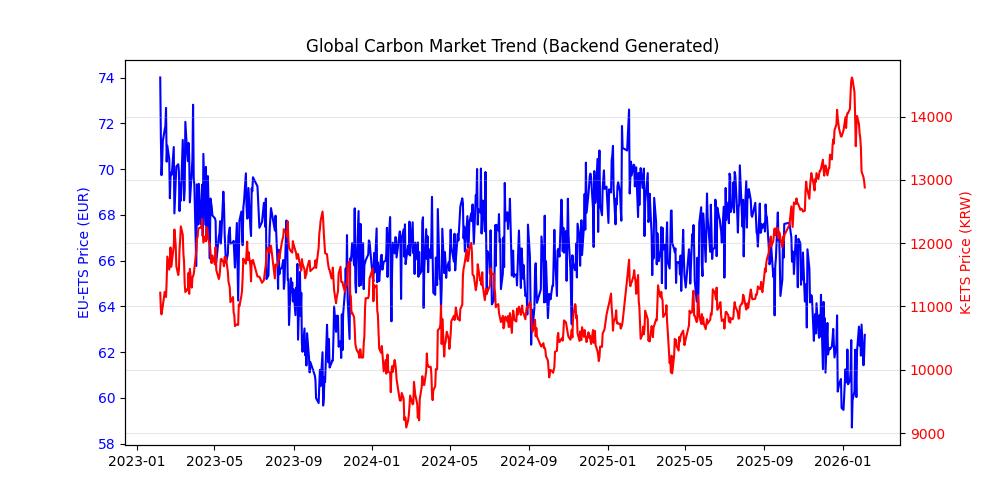
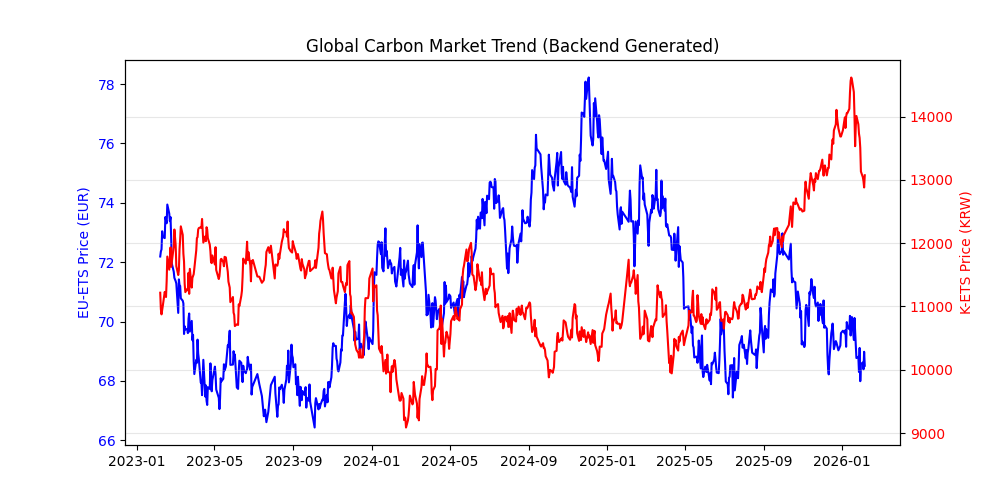
api동기화

diff --git a/frontend/src/features/시뮬레이터/SimulatorTab.tsx b/frontend/src/features/시뮬레이터/SimulatorTab.tsx
@@ -1,4 +1,4 @@
-import React from 'react';
+import React, { useState, useEffect } from 'react';
 import {
     ComposedChart, Line, XAxis, YAxis, CartesianGrid, Tooltip, ResponsiveContainer, ReferenceLine
 } from 'recharts';
@@ -46,11 +46,45 @@ export const SimulatorTab: React.FC<SimulatorTabProps> = ({
     estimatedSavings,
     generateAIPlan
 }) => {
+    const [marketData, setMarketData] = useState(MARKET_DATA);
+
+    useEffect(() => {
+        const fetchMarketData = async () => {
+            try {
+                const response = await fetch('http://localhost:8000/api/v1/sim/market/current');
+                if (response.ok) {
+                    const data = await response.json();
+
+                    setMarketData(prev => ({
+                        ...prev,
+                        'K-ETS': {
+                            ...prev['K-ETS'],
+                            price: data['K-ETS'].price,
+                            change: data['K-ETS'].change,
+                            // ticker could be updated if backend returns it, mainly ensuring consistency
+                        },
+                        'EU-ETS': {
+                            ...prev['EU-ETS'],
+                            price: data['EU-ETS'].price,
+                            change: data['EU-ETS'].change
+                        }
+                    }));
+                }
+            } catch (error) {
+                console.error("Failed to fetch market data", error);
+            }
+        };
+        fetchMarketData();
+        // Optional: Polling every 1 min
+        const interval = setInterval(fetchMarketData, 60000);
+        return () => clearInterval(interval);
+    }, []);
+
     return (
         <div className="space-y-8 animate-in fade-in duration-700">
             {/* Grid */}
             <div className="grid grid-cols-1 sm:grid-cols-2 lg:grid-cols-4 gap-4">
-                {Object.values(MARKET_DATA).map((market) => {
+                {Object.values(marketData).map((market) => {
                     const isActive = selectedMarket === market.id;
                     return (
                         <Card
@@ -92,7 +126,7 @@ export const SimulatorTab: React.FC<SimulatorTabProps> = ({
                         <p className="text-sm text-slate-500">다중 시장 수렴 분석 (Convergence Analysis)</p>
                         <div className="flex gap-2 mt-2">
                             <p className="text-[10px] text-[#10b77f] font-bold bg-[#10b77f]/10 w-fit px-2 py-0.5 rounded-full flex items-center gap-1">
-                                <Database size={10} /> Source: EEX & KRX Data
+                                <Database size={10} /> 출처: EEX & KRX 데이터
                             </p>
                         </div>
                     </div>
@@ -133,10 +167,10 @@ export const SimulatorTab: React.FC<SimulatorTabProps> = ({
                             />
 
                             {/* Left Axis: EU-ETS (EUR) */}
-                            <YAxis yAxisId="left" orientation="left" hide={false} domain={['auto', 'auto']} tick={{ fontSize: 10, fill: '#a5d8ff' }} label={{ value: 'EUR', angle: -90, position: 'insideLeft', fill: '#a5d8ff', fontSize: 10 }} />
+                            <YAxis yAxisId="left" orientation="left" hide={false} domain={['auto', 'auto']} tick={{ fontSize: 10, fill: '#a5d8ff' }} label={{ value: '유로 (EUR)', angle: -90, position: 'insideLeft', fill: '#a5d8ff', fontSize: 10 }} />
 
                             {/* Right Axis: K-ETS (KRW) */}
-                            <YAxis yAxisId="right" orientation="right" hide={false} domain={['auto', 'auto']} tick={{ fontSize: 10, fill: '#10b77f' }} label={{ value: 'KRW', angle: 90, position: 'insideRight', fill: '#10b77f', fontSize: 10 }} />
+                            <YAxis yAxisId="right" orientation="right" hide={false} domain={['auto', 'auto']} tick={{ fontSize: 10, fill: '#10b77f' }} label={{ value: '원 (KRW)', angle: 90, position: 'insideRight', fill: '#10b77f', fontSize: 10 }} />
 
                             <Tooltip content={<CustomTooltip />} />
                             {(timeRange !== '1개월') && (
@@ -151,7 +185,7 @@ export const SimulatorTab: React.FC<SimulatorTabProps> = ({
                                 yAxisId="left"
                                 type="monotone"
                                 dataKey="euPrice"
-                                name="EU-ETS"
+                                name="유럽 (EU-ETS)"
                                 stroke={MARKET_DATA['EU-ETS'].color}
                                 strokeWidth={selectedMarket === 'EU-ETS' ? 3 : 1.5}
                                 strokeOpacity={selectedMarket === 'EU-ETS' ? 1 : 0.6}
@@ -166,7 +200,7 @@ export const SimulatorTab: React.FC<SimulatorTabProps> = ({
                                 yAxisId="right"
                                 type="monotone"
                                 dataKey="krPrice"
-                                name="K-ETS"
+                                name="한국 (K-ETS)"
                                 stroke={MARKET_DATA['K-ETS'].color}
                                 strokeWidth={selectedMarket === 'K-ETS' ? 3 : 1.5}
                                 strokeOpacity={selectedMarket === 'K-ETS' ? 1 : 0.6}
@@ -238,7 +272,7 @@ export const SimulatorTab: React.FC<SimulatorTabProps> = ({
                         <div className="flex flex-col gap-6 mb-8">
                             <div className="flex flex-col gap-2">
                                 <div className="flex justify-between text-sm">
-                                    <label className="text-slate-300">예산 배정 (Budget)</label>
+                                    <label className="text-slate-300">예산 배정</label>
                                     <span className="font-mono text-[#10b77f]">{simBudget}%</span>
                                 </div>
                                 <input
@@ -251,7 +285,7 @@ export const SimulatorTab: React.FC<SimulatorTabProps> = ({
                             </div>
                             <div className="flex flex-col gap-2">
                                 <div className="flex justify-between text-sm">
-                                    <label className="text-slate-300">리스크 허용범위 (Risk)</label>
+                                    <label className="text-slate-300">리스크 허용범위</label>
                                     <span className="font-mono text-[#10b77f]">{simRisk < 30 ? '낮음' : simRisk < 70 ? '중간' : '높음'}</span>
                                 </div>
                                 <input

diff --git a/frontend/src/components/ui/CustomTooltip.tsx b/frontend/src/components/ui/CustomTooltip.tsx
@@ -6,8 +6,8 @@ export const CustomTooltip = ({ active, payload, label, unit }: any) => {
             <div className="bg-white/95 backdrop-blur-md border border-slate-100 p-4 rounded-xl shadow-2xl text-xs z-50">
                 <p className="font-bold text-slate-800 mb-2 border-b border-slate-100 pb-2">{label}</p>
                 {payload.map((entry: any, index: number) => {
-                    const isCurrency = ['K-ETS', 'EU-ETS', 'UK-ETS', 'Cost', 'Price', 'Revenue', 'Capex'].some(key => entry.name?.includes(key));
-                    const currencySymbol = entry.name?.includes('EU') ? '€' : (entry.name?.includes('UK') ? '£' : '₩');
+                    const isCurrency = ['K-ETS', 'EU-ETS', 'UK-ETS', '한국', '유럽', 'Cost', 'Price', 'Revenue', 'Capex'].some(key => entry.name?.includes(key));
+                    const currencySymbol = (entry.name?.includes('EU') || entry.name?.includes('유럽')) ? '€' : (entry.name?.includes('UK') ? '£' : '₩');
 
                     return (
                         <div key={index} className="flex items-center gap-2 mb-1 justify-between min-w-[120px]">

diff --git a/frontend/src/data/mockData.ts b/frontend/src/data/mockData.ts
@@ -22,7 +22,7 @@ export const MOCK_COMPANIES: CompanyConfig[] = [
 ];
 
 export const MARKET_DATA: Record<MarketType, MarketInfo> = {
-    'K-ETS': { id: 'K-ETS', name: '한국', ticker: 'KAU25', price: 15450, currency: 'KRW', change: 1.2, color: '#10b77f', desc: 'KAU25 할당배출권', high: 16500, low: 13800, volatility: 'Low' },
+    'K-ETS': { id: 'K-ETS', name: '한국', ticker: 'KAU', price: 15450, currency: 'KRW', change: 1.2, color: '#10b77f', desc: 'KAU 할당배출권', high: 16500, low: 13800, volatility: 'Low' },
     'EU-ETS': { id: 'EU-ETS', name: '유럽 통합', ticker: 'EUA', price: 74.50, currency: 'EUR', change: -0.5, color: '#a5d8ff', desc: '글로벌 벤치마크', high: 76.20, low: 72.80, volatility: 'High' },
 };
 

diff --git a/frontend/src/App.tsx b/frontend/src/App.tsx
@@ -70,8 +70,8 @@ const App: React.FC = () => {
           const fallbackData: TrendData[] = [];
           const startDate = new Date('2023-01-01');
           const endDate = new Date();
-          let krPrice = 13500;
-          let euPrice = 72.0;
+          let krPrice = 15450;
+          let euPrice = 74.50;
           for (let d = new Date(startDate); d <= endDate; d.setDate(d.getDate() + 1)) {
             if (d.getDay() === 0 || d.getDay() === 6) continue;
             krPrice += (Math.random() - 0.5) * 200;

diff --git a/frontend/vite.config.ts b/frontend/vite.config.ts
@@ -5,6 +5,10 @@ import tailwindcss from '@tailwindcss/vite'
 // https://vite.dev/config/
 export default defineConfig({
   plugins: [react(), tailwindcss()],
+  server: {
+    port: 3000,
+    strictPort: true,
+  },
   build: {
     // 파일이 바뀔 때마다 이름에 랜덤 해시값 추가 (예: index-Xy8z.js)
     rollupOptions: {

diff --git a/backend/app/services/market_data.py b/backend/app/services/market_data.py
@@ -141,16 +141,18 @@ class MarketDataService:
         
         # 4. 현실적인 폴백 (모든 데이터 소스가 실패할 경우)
         if df_merge["EU_ETS"].isnull().all() or (df_merge["EU_ETS"] == 0).all():
-             print("Warning: EU_ETS data is all NaN or 0. Applying urgent mock fallback.")
-             dates = df_merge.index if not df_merge.empty else pd.date_range(start_date, end_date)
-             df_merge = pd.DataFrame(index=dates) if df_merge.empty else df_merge
-             df_merge["EU_ETS"] = 72.0 + np.cumsum(np.random.normal(0, 0.4, len(df_merge))) + np.random.normal(0, 1, len(df_merge))
+            print("Warning: EU_ETS data is all NaN or 0. Applying urgent mock fallback.")
+            dates = df_merge.index if not df_merge.empty else pd.date_range(start_date, end_date)
+            df_merge = pd.DataFrame(index=dates) if df_merge.empty else df_merge
+            np.random.seed(42) # 데이터 일관성을 위해 시드 고정
+            df_merge["EU_ETS"] = 72.0 + np.cumsum(np.random.normal(0, 0.4, len(df_merge))) + np.random.normal(0, 0.2, len(df_merge))
 
         if df_merge["K_ETS"].isnull().all() or (df_merge["K_ETS"] == 0).all():
-             print("Warning: K_ETS data is all NaN or 0. Applying urgent mock fallback.")
-             dates = df_merge.index if not df_merge.empty else pd.date_range(start_date, end_date)
-             df_merge = pd.DataFrame(index=dates) if df_merge.empty else df_merge
-             df_merge["K_ETS"] = 15500 + np.cumsum(np.random.normal(0, 100, len(df_merge))) + np.random.normal(0, 200, len(df_merge))
+            print("Warning: K_ETS data is all NaN or 0. Applying urgent mock fallback.")
+            dates = df_merge.index if not df_merge.empty else pd.date_range(start_date, end_date)
+            df_merge = pd.DataFrame(index=dates) if df_merge.empty else df_merge
+            np.random.seed(42) # 데이터 일관성을 위해 시드 고정
+            df_merge["K_ETS"] = 15500 + np.cumsum(np.random.normal(0, 50, len(df_merge))) + np.random.normal(0, 100, len(df_merge))
 
         df_merge = df_merge.ffill().bfill()
 
@@ -165,6 +167,61 @@ class MarketDataService:
                 "krPrice": int(kr_val)
             })
         return result
+
+    def get_current_prices(self):
+        """
+        [Real-time] 현재 KAU/EUA 가격 및 전일 대비 등락률 조회
+        """
+        try:
+            # 캐시가 없으면 로딩 시도
+            if not MarketDataService._cache:
+                # 동기 환경에서 호출 시, async 함수를 바로 못 부르므로 
+                # (여기서는 간단히 KRX만 실시간 조회하거나, 캐시가 비어있으면 기본값 리턴)
+                pass 
+            
+            # 1. K-ETS (한국)
+            kr_data = self.get_carbon_price_krx()
+            
+            # 2. EU-ETS (유럽)
+            eu_price = 74.50
+            
+            # ★ 핵심: 차트 데이터와 실시간 카드 가격 일치시키기
+            if MarketDataService._cache:
+                latest = MarketDataService._cache[-1]
+                kr_data['price'] = latest['krPrice']
+                eu_price = latest['euPrice']
+
+            # 변동률 계산 (최근 2일 데이터 비교)
+            kr_change = 0.0
+            eu_change = 0.0
+            if len(MarketDataService._cache) >= 2:
+                yesterday = MarketDataService._cache[-2]
+                today = MarketDataService._cache[-1]
+                
+                if yesterday['krPrice'] > 0:
+                    kr_change = ((today['krPrice'] - yesterday['krPrice']) / yesterday['krPrice']) * 100
+                if yesterday['euPrice'] > 0:
+                    eu_change = ((today['euPrice'] - yesterday['euPrice']) / yesterday['euPrice']) * 100
+
+            return {
+                "K-ETS": {
+                    "price": kr_data['price'],
+                    "change": round(kr_change, 2),
+                    "ticker": "KAU"
+                },
+                "EU-ETS": {
+                    "price": eu_price,
+                    "change": round(eu_change, 2),
+                    "ticker": "EUA"
+                }
+            }
+        except Exception as e:
+            print(f"[Error] get_current_prices: {e}")
+            return {
+                "K-ETS": {"price": 15450, "change": 0.0, "ticker": "KAU"},
+                "EU-ETS": {"price": 74.50, "change": 0.0, "ticker": "EUA"}
+            }
+
 
     async def get_dual_market_history(self, period: str = "1y"):
         """

diff --git a/backend/app/routers/simulator.py b/backend/app/routers/simulator.py
@@ -111,3 +111,10 @@ async def get_oil_prices():
     [Global] 실시간 유가 정보 (Brent/WTI) 조회
     """
     return await oil_price_service.get_latest_prices()
+
+@router.get("/market/current")
+async def get_current_market_status():
+    """
+    [Simulator Tab] KAU/EUA 실시간(또는 최신) 가격 및 등락률 조회
+    """
+    return market_service.get_current_prices()

diff --git a/backend/market_report.md b/backend/market_report.md
@@ -1,30 +1,30 @@
 # 📊 ESG Market Data Report
-**Updated:** 2026-02-04 17:25:08
+**Updated:** 2026-02-05 12:45:31
 
-**Total Rows:** 713
+**Total Rows:** 714
 
 ## Recent 10 Days Data
 | date                |   euPrice |   krPrice |
 |:--------------------|----------:|----------:|
-| 2026-01-22 00:00:00 |     60.03 |     13842 |
-| 2026-01-23 00:00:00 |     62.05 |     14008 |
-| 2026-01-26 00:00:00 |     63.11 |     13878 |
-| 2026-01-27 00:00:00 |     62.28 |     13729 |
-| 2026-01-28 00:00:00 |     62.94 |     13662 |
-| 2026-01-29 00:00:00 |     61.84 |     13504 |
-| 2026-01-30 00:00:00 |     63.2  |     13131 |
-| 2026-02-02 00:00:00 |     61.42 |     13041 |
-| 2026-02-03 00:00:00 |     61.85 |     12978 |
-| 2026-02-04 00:00:00 |     62.75 |     12879 |
+| 2026-01-23 00:00:00 |     68.77 |     14008 |
+| 2026-01-26 00:00:00 |     68.81 |     13878 |
+| 2026-01-27 00:00:00 |     68.3  |     13729 |
+| 2026-01-28 00:00:00 |     69.11 |     13662 |
+| 2026-01-29 00:00:00 |     67.99 |     13504 |
+| 2026-01-30 00:00:00 |     68.57 |     13131 |
+| 2026-02-02 00:00:00 |     68.62 |     13041 |
+| 2026-02-03 00:00:00 |     68.39 |     12978 |
+| 2026-02-04 00:00:00 |     68.98 |     12879 |
+| 2026-02-05 00:00:00 |     68.51 |     13072 |
 
 ## Data Statistics
 |       |   euPrice |   krPrice |
 |:------|----------:|----------:|
-| count | 713       |   713     |
-| mean  |  66.4092  | 11280.3   |
-| std   |   2.50847 |   977.871 |
-| min   |  58.7     |  9088     |
-| 25%   |  65.1     | 10659     |
-| 50%   |  66.58    | 11136     |
-| 75%   |  68.04    | 11747     |
-| max   |  74       | 14616     |
+| count | 714       |   714     |
+| mean  |  71.0452  | 11282.8   |
+| std   |   2.58046 |   979.483 |
+| min   |  66.43    |  9088     |
+| 25%   |  68.8625  | 10659     |
+| 50%   |  70.625   | 11138     |
+| 75%   |  73.1375  | 11750.8   |
+| max   |  78.22    | 14616     |
